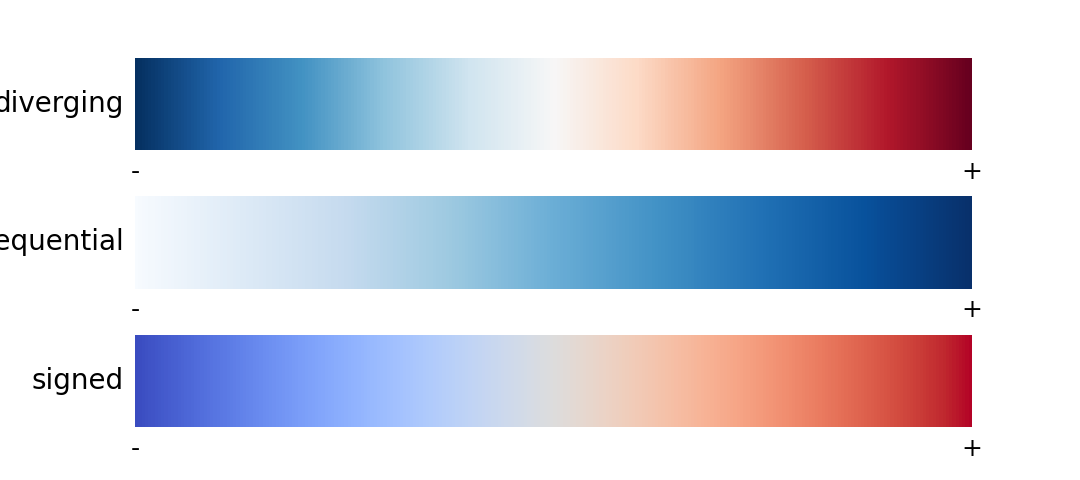
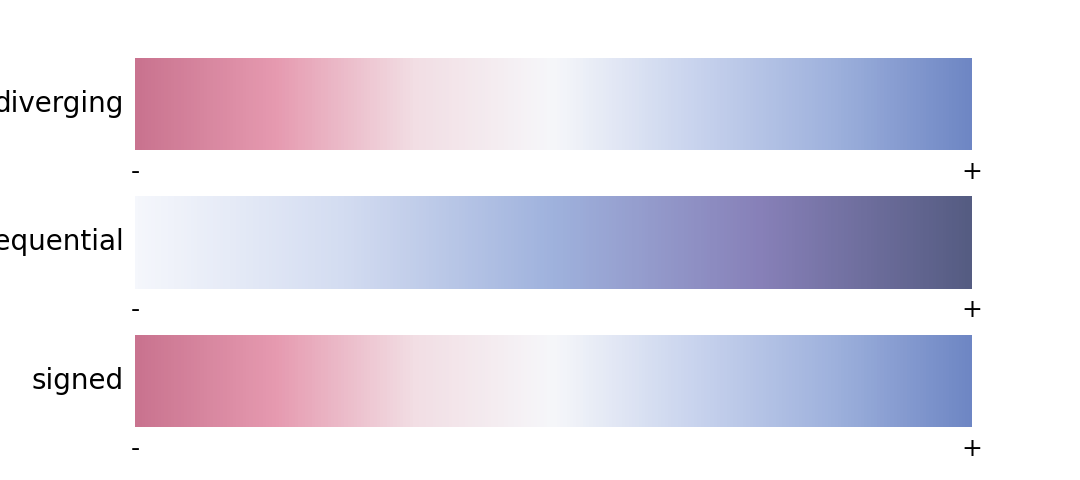
Adopt the sampled palette and its two derived colour maps
Palette: replace the 85%-saturation set with the colours sampled off the
reference stacked-bar chart - primary #9FB2DD, secondary #8780B8, contrast
#E69AB0, improve #B8D3C4, accent #EEBEA8, neutral #555C82; light is a
68%-toward-white tint of primary (#E0E6F4) since the reference chart has no
light fill role.

Colour maps: add WXL_CMAP_STOPS and register two maps interpolated from the
palette. WXL_CMAP is now 'wxl_div_rose_blue' (rose -> neutral -> periwinkle) and
WXL_CMAPS adds 'wxl_seq_blue' (near-white -> periwinkle -> deep slate); the
heatmap and filled contour use them, so a matrix always sits in the same colour
family as the line work around it. Docs, palette/cmap swatches, previews and the
Word document are rebuilt.

diff --git a/assets/wxl_style.py b/assets/wxl_style.py
@@ -26,7 +26,7 @@ import matplotlib.pyplot as plt
 import matplotlib.transforms
 import numpy as np
 from matplotlib import text as mtext
-from matplotlib.colors import to_hex
+from matplotlib.colors import LinearSegmentedColormap, to_hex
 from matplotlib.font_manager import findfont
 
 # --------------------------------------------------------------------------
@@ -35,15 +35,18 @@ from matplotlib.font_manager import findfont
 
 #: Soft science palette (muted pastel series, journal-figure look). The light
 #: members carry the large fills, so a big bar or stacked area stays calm; the
-#: two deep violets are kept for thin lines, emphasis and references.
+#: two deep violets are kept for thin lines, emphasis and references. The seven
+#: values were sampled off the reference stacked-bar chart (mode colour of each
+#: segment) and adopted as-is; ``light`` is a 68 %-toward-white tint of
+#: ``primary``, since the reference chart has no light fill role.
 WXL_PALETTE = {
-    "primary": "#8FA2D6",    # Periwinkle Blue  - proposed method / main series
-    "secondary": "#6A5C95",  # Lavender Dusk    - supporting series
-    "contrast": "#D99AAE",   # Coral Bloom      - baseline / competing method
-    "improve": "#A9CBB8",    # Seafoam Mist     - improvement / positive variant
-    "accent": "#E7A889",     # Coral Peach      - emphasis, annotations
-    "neutral": "#5B608C",    # Slate Violet     - reference lines, grid, background
-    "light": "#CFE3E6",      # Pale Aqua        - light fill, uncertainty bands
+    "primary": "#9FB2DD",    # Periwinkle Blue  - proposed method / main series
+    "secondary": "#8780B8",  # Lavender Dusk    - supporting series
+    "contrast": "#E69AB0",   # Coral Bloom      - baseline / competing method
+    "improve": "#B8D3C4",    # Seafoam Mist     - improvement / positive variant
+    "accent": "#EEBEA8",     # Coral Peach      - emphasis, annotations
+    "neutral": "#555C82",    # Slate Violet     - reference lines, grid, background
+    "light": "#E0E6F4",      # pale Periwinkle  - light fill, uncertainty bands
 }
 
 #: Ink for text, axes, annotations and every outline. A deep slate rather than
@@ -51,11 +54,26 @@ WXL_PALETTE = {
 #: keeping the contrast of a near-black.
 WXL_INK = "#2E3142"
 
-#: Default diverging colour map for matrices and correlation heatmaps.
-WXL_CMAP = "RdBu_r"
+#: Colour-map stops, interpolated from the palette so a heatmap or contour is
+#: always the same family as the line work around it. ``div`` runs rose -> clear
+#: -> periwinkle through a neutral centre (signed data); ``seq`` runs near-white
+#: -> periwinkle -> deep slate violet (single-sided magnitudes).
+WXL_CMAP_STOPS = {
+    "div_rose_blue": ["#C9738F", "#E69AB0", "#F2DEE4", "#F6F7FA",
+                      "#C9D4EE", "#9FB2DD", "#6E86C4"],
+    "seq_blue": ["#F5F7FC", "#D3DCF1", "#9FB2DD", "#8780B8", "#555C82"],
+}
+for _name, _stops in WXL_CMAP_STOPS.items():
+    matplotlib.colormaps.register(
+        LinearSegmentedColormap.from_list(f"wxl_{_name}", _stops), force=True)
 
-#: Sequential / signed colour maps that stay inside the house look.
-WXL_CMAPS = {"diverging": "RdBu_r", "sequential": "Blues", "signed": "coolwarm"}
+#: Default diverging colour map for matrices and correlation heatmaps.
+WXL_CMAP = "wxl_div_rose_blue"
+
+#: Colour maps that stay inside the house look. ``signed`` uses the same
+#: rose <-> blue ramp as ``diverging``; the palette has no second diverging pair.
+WXL_CMAPS = {"diverging": "wxl_div_rose_blue", "sequential": "wxl_seq_blue",
+             "signed": "wxl_div_rose_blue"}
 
 #: Colour cycle used when a helper is called without explicit colours.
 WXL_SERIES = [

diff --git a/examples/gallery.py b/examples/gallery.py
@@ -24,7 +24,7 @@ SKILL = Path(__file__).resolve().parents[1]
 sys.path.insert(0, str(SKILL / "assets"))
 
 from wxl_style import (  # noqa: E402
-    WXL_AXES_PANEL_MM, WXL_CMAP, WXL_FIGSIZE, WXL_FONTSIZE, WXL_INK,
+    WXL_AXES_PANEL_MM, WXL_CMAP, WXL_CMAPS, WXL_FIGSIZE, WXL_FONTSIZE, WXL_INK,
     WXL_PALETTE, WXL_WIDTH_MM, add_caption, add_caption_below, annotate_bars,
     apply_wxl_style, center_grid, check_wxl_style, create_subplots,
     finalize_figure, framed_legend, measure_width_mm, panel_tag, prepare_figure,
@@ -443,8 +443,8 @@ def fig_strip_mean():
 # matrix family
 # --------------------------------------------------------------------------
 @figure("heatmap", "热图（带色条与数值）", "matrix",
-        "相关系数矩阵，RdBu_r 发散色图，单元格标数值。只出单栏版。",
-        'im = ax.imshow(m, cmap="RdBu_r", vmin=-1, vmax=1)\n'
+        "相关系数矩阵，玫红↔蓝发散色图（采样配色适配），单元格标数值。只出单栏版。",
+        'im = ax.imshow(m, cmap=WXL_CMAP, vmin=-1, vmax=1)\n'
         'cb = fig.colorbar(im, ax=ax, fraction=0.046, pad=0.03)\n'
         'cb.outline.set_linewidth(0.8)', width="single")
 def fig_heatmap():
@@ -470,7 +470,8 @@ def fig_heatmap():
 
 @figure("contour", "填色等值线图", "matrix",
         "二维场分布，色条显示量级，适合应力场、温度场等。",
-        'cf = ax.contourf(X, Y, Z, levels=12, cmap="Blues")\n'
+        'cf = ax.contourf(X, Y, Z, levels=12,\n'
+        '                 cmap=WXL_CMAPS["sequential"])\n'
         'cb = fig.colorbar(cf, ax=ax, fraction=0.046, pad=0.03)')
 def fig_contour():
     fig, (ax,) = create_subplots(figsize=WXL_FIGSIZE["double"])
@@ -478,7 +479,7 @@ def fig_contour():
     y = np.linspace(-3, 3, 160)
     X, Y = np.meshgrid(x, y)
     Z = np.exp(-(X ** 2 + Y ** 2) / 2) + 0.6 * np.exp(-((X - 1.2) ** 2 + (Y + 1.0) ** 2))
-    cf = ax.contourf(X, Y, Z, levels=12, cmap="Blues")
+    cf = ax.contourf(X, Y, Z, levels=12, cmap=WXL_CMAPS["sequential"])
     ax.set_xlabel("x (mm)")
     ax.set_ylabel("y (mm)")
     cb = fig.colorbar(cf, ax=ax, fraction=0.046, pad=0.03)
@@ -745,7 +746,7 @@ HTML_HEAD = """<!doctype html>
   .card .head{display:flex;justify-content:space-between;align-items:baseline;
               gap:10px;padding:9px 12px 6px;border-bottom:1px solid #e6e6e6}
   .card .head h3{margin:0;font-family:"Times New Roman",serif;font-size:15px}
-  .card .cat{font-size:11.5px;color:#fff;background:#6A5C95;padding:1px 7px;border-radius:2px}
+  .card .cat{font-size:11.5px;color:#fff;background:#8780B8;padding:1px 7px;border-radius:2px}
   .card img{width:100%;height:auto;display:block;background:#fff;cursor:zoom-in;
             border-bottom:1px solid #e6e6e6}
   .card .body{padding:9px 12px 12px;font-size:12.5px;color:#333}

diff --git a/references/design-theory.md b/references/design-theory.md
@@ -91,26 +91,29 @@ at most a two-entry legend. If a panel feels crowded at 90 mm, move it to
 A soft, low-saturation "science" set of seven colours, in the spirit of the soft
 pastel palettes used by modern journal-figure libraries (for example SciPalette's
 pastel sets, the AAAS/Nature palettes in `ggsci`, and the `science` preset in
-`plotstyle`). Muted fills with ink edges keep the figures calm and print-safe.
+`plotstyle`). The source colours were taken to **85 % HSV saturation** (hue and
+value unchanged) after a saturation review on the stacked-area chart: the layers
+stay separable while the fills keep the calm, low-chroma look. Muted fills with
+ink edges keep the figures print-safe.
 
 | Key | Hex | Name | Meaning | Typical use |
 |---|---|---|---|---|
-| `primary` | `#8FA2D6` | Periwinkle Blue | the method or series you are arguing for | main bars, main curve |
-| `secondary` | `#6A5C95` | Lavender Dusk | supporting role | extra series |
-| `contrast` | `#D99AAE` | Coral Bloom | baseline or competitor | comparison bars/curves |
-| `improve` | `#A9CBB8` | Seafoam Mist | improvement, variant | ablation, positive deltas |
-| `accent` | `#E7A889` | Coral Peach | emphasis | annotations, highlighted points |
-| `neutral` | `#5B608C` | Slate Violet | reference, background | gridlines, target lines |
-| `light` | `#CFE3E6` | Pale Aqua | fill, low-emphasis mass | histograms, bands |
+| `primary` | `#9FB2DD` | Periwinkle Blue | the method or series you are arguing for | main bars, main curve |
+| `secondary` | `#8780B8` | Lavender Dusk | supporting role | extra series |
+| `contrast` | `#E69AB0` | Coral Bloom | baseline or competitor | comparison bars/curves |
+| `improve` | `#B8D3C4` | Seafoam Mist | improvement, variant | ablation, positive deltas |
+| `accent` | `#EEBEA8` | Coral Peach | emphasis | annotations, highlighted points |
+| `neutral` | `#555C82` | Slate Violet | reference, background | gridlines, target lines |
+| `light` | `#E0E6F4` | Pale Aqua | fill, low-emphasis mass | histograms, bands |
 
 Design intent:
 
 - **The light members carry the area, the deep ones carry the line.** This set
-  has only two dark colours (Lavender Dusk #6A5C95 and Slate Violet #5B608C,
-  both luminance ≈ 99/255); the other five sit at 162–223. Putting a deep violet
-  on `primary` fills the largest bar or stacked area with the darkest ink and
-  makes the whole figure read heavy, so `primary` is the light periwinkle and the
-  deep violets are reserved for thin lines, emphasis and references.
+  has only two dark colours (Lavender Dusk and Slate Violet, both luminance
+  ≈ 95/255); the other five sit at 160–222. Putting a deep violet on `primary`
+  fills the largest bar or stacked area with the darkest ink and makes the whole
+  figure read heavy, so `primary` is the light periwinkle and the deep violets are
+  reserved for thin lines, emphasis and references.
 - Coral is reserved for the thing you compare against, so a reader who only skims
   the colour still reads the comparison.
 - Seafoam marks gain; peach marks emphasis. Do not use them as a second baseline.
@@ -126,8 +129,8 @@ Design intent:
   survives a black-and-white print. When more than four series are needed, add
   hatch or marker-shape encoding rather than new hues.
 
-Colour maps: `RdBu_r` for signed matrices (correlation), `Blues` for
-non-negative fields (intensity, temperature), `coolwarm` when the sign matters
+Colour maps: `wxl_div_rose_blue` for signed matrices (correlation), `wxl_seq_blue` for
+non-negative fields (intensity, temperature), `wxl_seq_blue` when the sign matters
 and more contrast is needed.
 
 ---

diff --git a/README.md b/README.md
@@ -74,7 +74,7 @@ the colours — the skill never decides these for them. See `references/preferen
 | Target | Elsevier / IEEE / Springer |
 | Font | Times New Roman + STIX math, SimSun for CJK |
 | Type scale | 11 pt body, legend 10 pt |
-| Palette | soft science 7-colour set: Periwinkle Blue `#8FA2D6` primary, Coral Bloom `#D99AAE` contrast, Seafoam Mist `#A9CBB8` improve, Coral Peach `#E7A889` accent, Lavender Dusk `#6A5C95` secondary, Slate Violet `#5B608C` neutral, Pale Aqua `#CFE3E6` light |
+| Palette | soft science 7-colour set: Periwinkle Blue `#9FB2DD` primary, Coral Bloom `#E69AB0` contrast, Seafoam Mist `#B8D3C4` improve, Coral Peach `#EEBEA8` accent, Lavender Dusk `#8780B8` secondary, Slate Violet `#555C82` neutral, Pale Aqua `#E0E6F4` light |
 | Axes | full box, 0.8 pt spines |
 | Legend | inside the axes, white face, ink (#2E3142) 0.8 pt border |
 | Ticks | inward, no grid, both axis ends land on a tick label |
@@ -291,13 +291,13 @@ The only colours allowed are the palette, the ink `#2E3142`, black and white.
 
 | Key | Hex | Name | Meaning | Typical use |
 |---|---|---|---|---|
-| `primary` | `#8FA2D6` | Periwinkle Blue | the method you argue for | main bars, main curve |
-| `secondary` | `#6A5C95` | Lavender Dusk | supporting series | extra series |
-| `contrast` | `#D99AAE` | Coral Bloom | baseline / competitor | comparison bars / curves |
-| `improve` | `#A9CBB8` | Seafoam Mist | improvement / variant | ablation, positive deltas |
-| `accent` | `#E7A889` | Coral Peach | emphasis | annotations, highlighted points |
-| `neutral` | `#5B608C` | Slate Violet | reference / background | gridlines, target lines |
-| `light` | `#CFE3E6` | Pale Aqua | fill, low-emphasis mass | histograms, bands |
+| `primary` | `#9FB2DD` | Periwinkle Blue | the method you argue for | main bars, main curve |
+| `secondary` | `#8780B8` | Lavender Dusk | supporting series | extra series |
+| `contrast` | `#E69AB0` | Coral Bloom | baseline / competitor | comparison bars / curves |
+| `improve` | `#B8D3C4` | Seafoam Mist | improvement / variant | ablation, positive deltas |
+| `accent` | `#EEBEA8` | Coral Peach | emphasis | annotations, highlighted points |
+| `neutral` | `#555C82` | Slate Violet | reference / background | gridlines, target lines |
+| `light` | `#E0E6F4` | Pale Aqua | fill, low-emphasis mass | histograms, bands |
 
 The light members carry the area and the two deep violets carry the lines: only
 Lavender Dusk and Slate Violet are dark (luminance ≈ 99/255), so the large fills
@@ -313,9 +313,9 @@ improve → accent → secondary → neutral`.
 
 | Key | Colormap | When |
 |---|---|---|
-| `diverging` | `RdBu_r` (default) | signed values, e.g. a correlation heatmap |
-| `sequential` | `Blues` | non-negative, e.g. a magnitude field |
-| `signed` | `coolwarm` | signed values with more contrast |
+| `diverging` | `wxl_div_rose_blue` (default) | signed values, e.g. a correlation heatmap |
+| `sequential` | `wxl_seq_blue` | non-negative, e.g. a magnitude field |
+| `signed` | `wxl_div_rose_blue` | same rose -> blue ramp |
 
 ### What to confirm before drawing
 

diff --git a/references/api.md b/references/api.md
@@ -11,13 +11,13 @@ skill's `assets/` directory to `sys.path`.
 
 ```python
 WXL_PALETTE = {
-    "primary":   "#8FA2D6",   # Periwinkle Blue - proposed method / main series
-    "secondary": "#6A5C95",   # Lavender Dusk   - supporting series
-    "contrast":  "#D99AAE",   # Coral Bloom     - baseline / competing method
-    "improve":   "#A9CBB8",   # Seafoam Mist    - improvement / positive variant
-    "accent":    "#E7A889",   # Coral Peach     - emphasis, annotations
-    "neutral":   "#5B608C",   # Slate Violet    - reference lines, grid, background
-    "light":     "#CFE3E6",   # Pale Aqua       - light fill, uncertainty bands
+    "primary":   "#9FB2DD",   # Periwinkle Blue - proposed method / main series
+    "secondary": "#8780B8",   # Lavender Dusk   - supporting series
+    "contrast":  "#E69AB0",   # Coral Bloom     - baseline / competing method
+    "improve":   "#B8D3C4",   # Seafoam Mist    - improvement / positive variant
+    "accent":    "#EEBEA8",   # Coral Peach     - emphasis, annotations
+    "neutral":   "#555C82",   # Slate Violet    - reference lines, grid, background
+    "light":     "#E0E6F4",   # Pale Aqua       - light fill, uncertainty bands
 }
 ```
 
@@ -40,8 +40,10 @@ is still accepted by the audit.
 
 ### WXL_CMAP / WXL_CMAPS
 
-`WXL_CMAP = "RdBu_r"` is the default diverging map. `WXL_CMAPS` also offers
-`"Blues"` (sequential) and `"coolwarm"` (signed) for matrices and fields.
+`WXL_CMAP = "wxl_div_rose_blue"` is the default diverging map, built by
+interpolating the palette (rose -> neutral -> periwinkle) so a heatmap always
+matches the line work around it. `WXL_CMAPS` also offers `"wxl_seq_blue"`
+(near-white -> periwinkle -> deep slate) for single-sided fields.
 
 ### WXL_SERIES
 

diff --git a/references/common-patterns.md b/references/common-patterns.md
@@ -178,7 +178,7 @@ add_caption(fig, "Fig. 4  Multi-panel comparison of the four settings.")
   40 mm wide, which cannot hold a 11 pt legend. Render multi-panel figures in
   double column only.
 - Keep a heatmap out of the grid. A colorbar adds a fifth axes, its aspect is
-  fixed, and the shared `RdBu_r` scale competes with the other panels. Show it as
+  fixed, and the shared `wxl_div_rose_blue` scale competes with the other panels. Show it as
   its own figure instead.
 - Mixing types in one grid (bar + line + box + scatter) is fine as long as the
   type scale, spine width and color semantics stay identical.
@@ -194,7 +194,7 @@ cb.outline.set_linewidth(0.8)
 ```
 
 - Always set `vmin`/`vmax` explicitly; auto-scaling makes panels incomparable.
-- Use `RdBu_r` for signed data and `Blues` for non-negative fields.
+- Use `wxl_div_rose_blue` for signed data and `wxl_seq_blue` for non-negative fields.
 - Annotate cells only when the matrix is 8 × 8 or smaller.
 - Colorbar axes are exempt from the full-box check but must still use inward
   ticks and a 0.8 pt outline.

diff --git a/references/preferences.md b/references/preferences.md
@@ -75,8 +75,8 @@ Ask the per-series colour mapping, and for matrices the colormap.
   Bloom pink (`contrast`), gain = Seafoam Mist sage (`improve`), emphasis = Coral
   Peach (`accent`), supporting = Lavender Dusk (`secondary`), reference = Slate
   Violet (`neutral`).
-- Matrices: `WXL_CMAP` = `RdBu_r` (signed), `Blues` (non-negative),
-  `coolwarm` (signed, more contrast).
+- Matrices: `WXL_CMAPS`: `wxl_div_rose_blue` (diverging, signed values),
+  `wxl_seq_blue` (sequential, non-negative).
 - If the user names a keyword (e.g. "Nature", "Science", "彩图1"), map it to a
   palette and confirm the concrete colours.
 

diff --git a/references/demos.md b/references/demos.md
@@ -57,8 +57,8 @@ wider than it looks inside the 75 × 55 mm single-column frame.
 
 | id | Chart | Width | Core call |
 |---|---|---|---|
-| `heatmap` | Annotated correlation heatmap | double | `ax.imshow(m, cmap="RdBu_r", vmin=-1, vmax=1)` |
-| `contour` | Filled contour field | double | `ax.contourf(X, Y, Z, levels=12, cmap="Blues")` |
+| `heatmap` | Annotated correlation heatmap | double | `ax.imshow(m, cmap="wxl_div_rose_blue", vmin=-1, vmax=1)` |
+| `contour` | Filled contour field | double | `ax.contourf(X, Y, Z, levels=12, cmap=WXL_CMAPS["sequential"])` |
 
 ## Special family
 

diff --git a/references/tutorials.md b/references/tutorials.md
@@ -118,7 +118,7 @@ m = rng.uniform(-1, 1, (6, 6))
 m = (m + m.T) / 2
 np.fill_diagonal(m, 1.0)
 
-im = ax.imshow(m, cmap="RdBu_r", vmin=-1, vmax=1)   # WXL_CMAP
+im = ax.imshow(m, cmap="wxl_div_rose_blue", vmin=-1, vmax=1)   # WXL_CMAP
 ticks = [f"V{i+1}" for i in range(6)]
 ax.set_xticks(range(6), ticks)
 ax.set_yticks(range(6), ticks)
